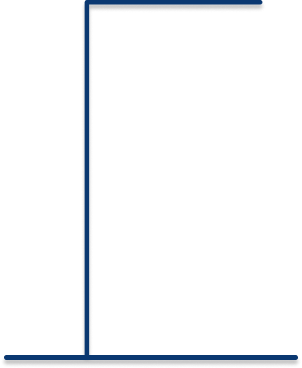
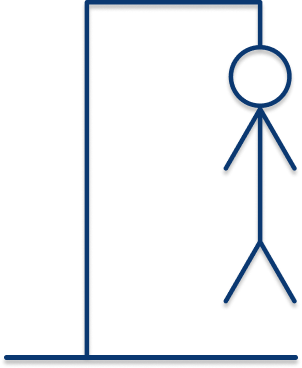
perform the function to draw the correct and incorrect letters

Changed region(s): [[0.7152, 0.0, 0.9834, 0.837]]

diff --git a/src/horca.js b/src/horca.js
@@ -1,7 +1,8 @@
 let gameHorca = {
-  state: 9,
+  state: 8,
   guessed: [],
   wrong: [],
+  secretWord: "ALURA",
 };
 let letters = [];
 
@@ -15,15 +16,22 @@ function draw(gameHorca) {
   // Actualizar imagen del ahorcado
   let $elem;
   $elem = $html.ahorcado;
-  $elem.src = "./images/ahorcado0" + gameHorca.state + ".png";
+
+  let state = gameHorca.state;
+  if (state === 9) {
+    state = gameHorca.previus;
+  }
+  $elem.src = "./images/ahorcado0" + state + ".png";
   // Crear letras adivinadas
   $elem = $html.guessed;
+  let guessed = gameHorca.guessed;
+  let secretWord = gameHorca.secretWord;
+  $elem.innerHTML = "";
   for (let i = 0; i < secretWord.length; i++) {
     let $span = document.createElement("span");
     let $text = document.createTextNode("");
-    if (gameHorca.guessed.indexOf(secretWord[i]) >= 0) {
+    if (guessed.indexOf(secretWord[i]) >= 0) {
       $text.nodeValue = secretWord[i];
-      console.log(secretWord[i]);
     }
     $span.setAttribute("class", "word guessed");
     $span.appendChild($text);
@@ -32,6 +40,7 @@ function draw(gameHorca) {
   // Crear letras equivocadas
   let wrong = gameHorca.wrong;
   $elem = $html.wrong;
+  $elem.innerHTML = "";
   for (let i = 0; i < wrong.length; i++) {
     $span = document.createElement("span");
     $text = document.createTextNode(wrong[i]);
@@ -41,15 +50,46 @@ function draw(gameHorca) {
   }
 }
 
-function checkLetter(key) {
-  if (
-    (key >= 65 && letters.indexOf(key)) ||
-    (key <= 90 && letters.indexOf(key))
-  ) {
-    letters.push(key);
-    return false;
+function guess(gameHorca, letter) {
+  let state = gameHorca.state;
+  let secretWord = gameHorca.secretWord;
+  if (state === 1 || state === 9) {
+    return;
+  }
+
+  let guessed = gameHorca.guessed;
+  let wrong = gameHorca.wrong;
+  if (guessed.indexOf(letter) >= 0 || wrong.indexOf(letter) >= 0) {
+    return;
+  }
+
+  if (secretWord.indexOf(letter) >= 0) {
+    let win = true;
+    for (let i = 0; i < secretWord.length; i++) {
+      if (guessed.indexOf(secretWord[i]) < 0 && secretWord[i] != letter) {
+        win = false;
+        gameHorca.previus = gameHorca.state;
+        break;
+      }
+    }
+    if (win) {
+      gameHorca.state = 9;
+    }
+    guessed.push(letter);
   } else {
-    console.log(key);
-    return true;
+    gameHorca.state--;
+    wrong.push(letter);
   }
 }
+
+console.log(gameHorca);
+window.onkeydown = function guessLetter(e) {
+  let letter = e.key;
+  letter = letter.toUpperCase();
+  if (/[^A-ZÑ]/.test(letter)) {
+    return;
+  }
+  guess(gameHorca, letter);
+  draw(gameHorca);
+  console.log(letter);
+};

diff --git a/src/main.js b/src/main.js
@@ -1,6 +1,6 @@
 const btnStart = document.querySelector(".btn-start");
 const btnNewWord = document.querySelector(".btn-newWord");
-const game = (document.querySelector(".game-page").style.display = "none");
+const gamePage = (document.querySelector(".game-page").style.display = "none");
 const newWord = (document.querySelector(".newWord-page").style.display =
   "none");
 
@@ -19,10 +19,9 @@ let words = [
   "GITHUB",
   "GIT",
 ];
-let secretWord = "";
 
 function hide() {
-  return game;
+  return gamePage;
 }
 
 btnStart.onclick = startGame;
@@ -32,7 +31,7 @@ btnNewWord.onclick = addnewWord;
 function randomWord() {
   const random = Math.floor(Math.random() * words.length);
   const rWord = words[random].toUpperCase();
-  secretWord = rWord;
+  gameHorca.secretWord = rWord;
   draw(gameHorca);
 }
 
@@ -41,18 +40,7 @@ function startGame() {
   document.querySelector(".game-page").style.display = "block";
   randomWord();
 
-  document.onkeydown = (e) => {
-    let letter = e.key.toUpperCase();
-    if (checkLetter(letter) && secretWord.includes(letter)) {
-      for (let i = 0; i < secretWord.length; i++) {
-        if (secretWord[i] === letter) {
-          gameHorca.guessed.push(letter);
-          console.log(gameHorca.guessed);
-        }
-      }
-    }
-  };
-  console.log(secretWord);
+  console.log(gameHorca.secretWord);
 }
 
 function addnewWord() {
